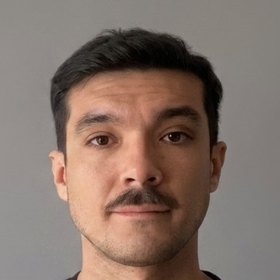
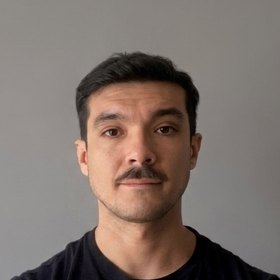
Aleja el encuadre del retrato en Sobre mí
Claude-Session: https://claude.ai/code/session_019oqm24apScdJa8YTtKtuDZ

diff --git a/index.html b/index.html
@@ -4,7 +4,7 @@
 <header><nav class="wrap main-nav" aria-label="Navegación principal"><a class="identity" href="#inicio">Nicolás Alderete <span>Data &amp; Operations</span></a><div class="navlinks"><a href="#proyectos">Proyectos</a><a href="#sobre-mi">Sobre mí</a><a href="#contacto">Contacto</a></div></nav></header>
 <main class="wrap" id="contenido"><section class="hero" id="inicio"><div><p class="eyebrow">Data &amp; Operations · Automatización</p><h1>Nicolás<br><span>Alderete.</span></h1><p class="hero-lead">Gestión operativa y Business Intelligence al servicio de mejores decisiones de negocio.</p><a class="hero-link" href="#proyectos">Ver proyectos <svg class="arrow" viewBox="0 0 24 24" aria-hidden="true"><path d="M5 12h14m-6-6 6 6-6 6"/></svg></a></div><svg class="hero-diagram" viewBox="0 0 360 190" aria-hidden="true"><g fill="none" stroke="#507c79" stroke-width="1.4"><path d="M20 30C105 30 72 95 145 95M20 95h125M20 160C105 160 72 95 145 95M215 95C288 95 255 30 340 30M215 95h125M215 95C288 95 255 160 340 160"/></g><g fill="#8ACCC5"><circle cx="20" cy="30" r="5"/><circle cx="20" cy="95" r="5"/><circle cx="20" cy="160" r="5"/><circle cx="340" cy="30" r="5"/><circle cx="340" cy="95" r="5"/><circle cx="340" cy="160" r="5"/></g><rect x="145" y="60" width="70" height="70" rx="14" fill="#182729" stroke="#8ACCC5" stroke-width="1.6"/><g stroke="#8ACCC5" stroke-width="1.7" fill="none"><path d="m163 88 17-9 17 9-17 9-17-9Zm0 10 17 9 17-9m-34 10 17 9 17-9"/></g></svg></section>
 <section class="work" id="proyectos"><div class="section-head"><h2>Proyectos seleccionados</h2><p>Problemas reales, mi aporte y las soluciones que construí.</p></div><div class="filters" role="group" aria-label="Filtrar proyectos"><button type="button" data-filter="all" aria-pressed="true">Todos</button><button type="button" data-filter="management" aria-pressed="false">Gestión</button><button type="button" data-filter="automation" aria-pressed="false">Automatización</button><button type="button" data-filter="bi" aria-pressed="false">Business Intelligence</button></div><p class="filter-status sr-only" role="status" aria-live="polite">7 proyectos</p><div class="projects"><article class="project" data-category="operations automation"><a class="project-visual" href="casos/gestion-cobranzas.html" aria-label="Ver caso: Gestión de cobranzas"><figure><div class="mini-app" aria-hidden="true"><div class="mini-side"><span class="mini-symbol">◇</span><span class="selected">Carteras</span><span class="">Casos</span><span class="">Archivo</span></div><div class="mini-main"><strong>Gestión de cartera</strong><div class="mini-table"><div class="mini-head"><span>Registro</span><span>Estado</span><span>Detalle</span></div><div class="mini-row"><i></i><span class="mini-state ">Pendiente</span><i></i></div><div class="mini-row"><i></i><span class="mini-state bright">En gestión</span><i></i></div><div class="mini-row"><i></i><span class="mini-state ">En gestión</span><i></i></div><div class="mini-row"><i></i><span class="mini-state bright">Cerrado</span><i></i></div></div></div></div><figcaption>Vista conceptual</figcaption></figure></a><div class="project-body"><p class="project-type">Sistemas de negocio · +50 usuarios</p><h3><a href="casos/gestion-cobranzas.html">Gestión de cobranzas</a></h3><p class="project-description">Conecté la cuenta corriente con la gestión de cada ejecutivo y el seguimiento central, preservando estados, comentarios e histórico.</p><div class="tags"><span class="tag">Apps Script</span><span class="tag">Google Sheets</span></div><a class="case-link" href="casos/gestion-cobranzas.html" aria-label="Ver caso de Gestión de cobranzas">Ver caso <svg class="arrow" viewBox="0 0 24 24" aria-hidden="true"><path d="M5 12h14m-6-6 6 6-6 6"/></svg></a></div></article><article class="project" data-category="operations bi management"><a class="project-visual" href="casos/reporting-ejecutivo.html" aria-label="Ver caso: Reporting ejecutivo"><figure><div class="mini-app" aria-hidden="true"><div class="mini-side"><span class="mini-symbol">◇</span><span class="selected">Resumen</span><span class="">Períodos</span><span class="">Fuentes</span></div><div class="mini-main"><strong>Informe operativo</strong><div class="mini-report"><div class="mini-lines"><i></i><i></i><i></i></div><div class="mini-bars"><i style="height:30%"></i><i style="height:50%"></i><i style="height:40%"></i><i style="height:70%"></i><i style="height:55%"></i><i style="height:85%"></i></div></div></div></div><figcaption>Vista conceptual</figcaption></figure></a><div class="project-body"><p class="project-type">Análisis y comunicación · Dirección</p><h3><a href="casos/reporting-ejecutivo.html">Reporting ejecutivo</a></h3><p class="project-description">Consolidé indicadores y preparé reportes que explican variaciones, pendientes y prioridades para las conversaciones de gestión.</p><div class="tags"><span class="tag">Reporting</span><span class="tag">Business Intelligence</span></div><a class="case-link" href="casos/reporting-ejecutivo.html" aria-label="Ver caso de Reporting ejecutivo">Ver caso <svg class="arrow" viewBox="0 0 24 24" aria-hidden="true"><path d="M5 12h14m-6-6 6 6-6 6"/></svg></a></div></article><article class="project" data-category="operations management"><a class="project-visual" href="casos/sistema-gestion.html" aria-label="Ver caso: Gestión operativa y de equipos"><figure><div class="mini-app" aria-hidden="true"><div class="mini-side"><span class="mini-symbol">◇</span><span class="selected">Prioridades</span><span class="">Acciones</span><span class="">Decisiones</span></div><div class="mini-main"><strong>Seguimiento de gestión</strong><div class="mini-table"><div class="mini-head"><span>Tema</span><span>Estado</span><span>Responsable</span></div><div class="mini-row"><i></i><span class="mini-state ">Asignado</span><i></i></div><div class="mini-row"><i></i><span class="mini-state bright">En curso</span><i></i></div><div class="mini-row"><i></i><span class="mini-state ">Asignado</span><i></i></div><div class="mini-row"><i></i><span class="mini-state bright">Cerrado</span><i></i></div></div></div></div><figcaption>Vista conceptual</figcaption></figure></a><div class="project-body"><p class="project-type">Gestión · +60 personas</p><h3><a href="casos/sistema-gestion.html">Gestión operativa y de equipos</a></h3><p class="project-description">Comparto la supervisión de un equipo de más de 60 personas: ordeno prioridades, coordino con otras áreas y llevo cada reunión a acciones con responsable.</p><div class="tags"><span class="tag">Gestión de equipos</span><span class="tag">Coordinación</span><span class="tag">KPIs</span></div><a class="case-link" href="casos/sistema-gestion.html" aria-label="Ver caso de Gestión operativa y de equipos">Ver caso <svg class="arrow" viewBox="0 0 24 24" aria-hidden="true"><path d="M5 12h14m-6-6 6 6-6 6"/></svg></a></div></article><article class="project" data-category="bi"><a class="project-visual" href="casos/business-intelligence.html" aria-label="Explorar Business Intelligence"><figure><div class="bi-cover" aria-hidden="true"><div class="bi-cover-title">Business Intelligence <span>04 casos</span></div><div class="bi-cover-grid"><div><b>01</b><span>Operaciones</span><small>Actividad · pendientes</small></div><div><b>02</b><span>Continuidad</span><small>Movilidad · tiempos</small></div><div><b>03</b><span>Bajas</span><small>Motivos · permanencia</small></div><div><b>04</b><span>Atención</span><small>Mensajes · conversaciones</small></div></div></div><figcaption>Áreas de análisis</figcaption></figure></a><div class="project-body"><p class="project-type">Analytics · 4 casos aplicados</p><h3><a href="casos/business-intelligence.html">Business Intelligence</a></h3><p class="project-description">Desarrollé tableros y análisis sobre operaciones, continuidad, bajas y atención, desde la definición de métricas hasta la lectura del resultado.</p><div class="tags"><span class="tag">Data Studio</span><span class="tag">Data Analysis</span><span class="tag">KPIs</span></div><a class="case-link" href="casos/business-intelligence.html" aria-label="Explorar los casos de Business Intelligence">Explorar casos <svg class="arrow" viewBox="0 0 24 24" aria-hidden="true"><path d="M5 12h14m-6-6 6 6-6 6"/></svg></a></div></article><article class="project" data-category="operations bi automation"><a class="project-visual" href="casos/control-flota-datos.html" aria-label="Ver caso: Control de flota"><figure><div class="mini-app" aria-hidden="true"><div class="mini-side"><span class="mini-symbol">◇</span><span class="selected">Unidades</span><span class="">Registros</span><span class="">Histórico</span></div><div class="mini-main"><strong>Registro de flota</strong><div class="mini-table"><div class="mini-head"><span>Registro</span><span>Estado</span><span>Detalle</span></div><div class="mini-row"><i></i><span class="mini-state ">Activo</span><i></i></div><div class="mini-row"><i></i><span class="mini-state bright">En revisión</span><i></i></div><div class="mini-row"><i></i><span class="mini-state ">Activo</span><i></i></div><div class="mini-row"><i></i><span class="mini-state bright">Registrado</span><i></i></div></div></div></div><figcaption>Vista conceptual</figcaption></figure></a><div class="project-body"><p class="project-type">Integración de datos · +5.000 unidades</p><h3><a href="casos/control-flota-datos.html">Control de flota</a></h3><p class="project-description">Integré fuentes de flota, revisiones y service con validaciones e históricos para consultar el estado actual y comparar períodos.</p><div class="tags"><span class="tag">Apps Script</span><span class="tag">Google Sheets</span><span class="tag">Data Studio</span></div><a class="case-link" href="casos/control-flota-datos.html" aria-label="Ver caso de Control de flota">Ver caso <svg class="arrow" viewBox="0 0 24 24" aria-hidden="true"><path d="M5 12h14m-6-6 6 6-6 6"/></svg></a></div></article><article class="project" data-category="operations automation management"><a class="project-visual" href="casos/procesos-entre-equipos.html" aria-label="Ver caso: Automatización de procesos"><figure><div class="mini-app" aria-hidden="true"><div class="mini-side"><span class="mini-symbol">◇</span><span class="selected">Flujos</span><span class="">Registros</span><span class="">Reglas</span></div><div class="mini-main"><strong>Flujo de trabajo</strong><div class="mini-flow"><div><i>01</i><span>Registro</span></div><b>›</b><div class="active"><i>02</i><span>Reglas</span></div><b>›</b><div><i>03</i><span>Equipo</span></div></div><div class="mini-track"><span></span><span></span><span></span></div></div></div><figcaption>Vista conceptual</figcaption></figure></a><div class="project-body"><p class="project-type">Diseño de procesos</p><h3><a href="casos/procesos-entre-equipos.html">Automatización de procesos</a></h3><p class="project-description">Convertí necesidades de distintos equipos en registros, reglas y automatizaciones para dar continuidad a cada gestión.</p><div class="tags"><span class="tag">Apps Script</span><span class="tag">Google Sheets</span></div><a class="case-link" href="casos/procesos-entre-equipos.html" aria-label="Ver caso de Automatización de procesos">Ver caso <svg class="arrow" viewBox="0 0 24 24" aria-hidden="true"><path d="M5 12h14m-6-6 6 6-6 6"/></svg></a></div></article><article class="project" data-category="operations automation bi"><a class="project-visual" href="casos/fleet-ops-center.html" aria-label="Ver caso: Fleet Ops Center"><figure><div class="mini-app" aria-hidden="true"><div class="mini-side"><span class="mini-symbol">◇</span><span class="selected">Operación</span><span>Equipos</span><span>Seguimiento</span></div><div class="mini-main"><strong>Fleet Ops Center</strong><div class="mini-modules"><span>Revisiones</span><span>Service</span><span>Taller</span><span>GNC</span><span>Documentación</span><span>Cobranzas</span></div></div></div><figcaption>Vista conceptual</figcaption></figure></a><div class="project-body"><p class="project-type">Producto interno · En desarrollo</p><h3><a href="casos/fleet-ops-center.html">Fleet Ops Center</a></h3><p class="project-description">Diseño una herramienta interna para reunir procesos, información e indicadores de flota en un mismo espacio de trabajo.</p><div class="tags"><span class="tag">Diseño funcional</span><span class="tag">Integración de datos</span></div><a class="case-link" href="casos/fleet-ops-center.html" aria-label="Ver caso de Fleet Ops Center">Ver caso <svg class="arrow" viewBox="0 0 24 24" aria-hidden="true"><path d="M5 12h14m-6-6 6 6-6 6"/></svg></a></div></article></div></section>
-<section id="sobre-mi" class="about"><div><div class="eyebrow">02 / Sobre mí</div><h2>Entender el problema.<br>Construir la solución.</h2><div class="portrait"><img src="assets/img/retrato-cara.jpg" width="280" height="280" alt="Nicolás Alderete" loading="lazy"><div><b>Nicolás Alderete</b><small>Data &amp; Operations · Buenos Aires</small></div></div></div><div class="about-copy"><p>Soy Nicolás. Combino gestión de operaciones y equipos con análisis de datos, Business Intelligence y automatización para mejorar procesos y decisiones de negocio. Actualmente soy supervisor en deRentas, donde coordino iniciativas entre equipos, defino KPIs y desarrollo reportes ejecutivos y herramientas de gestión.</p><p>Mi foco está en detectar oportunidades de mejora, simplificar procesos y transformar datos en acciones. Estoy disponible para roles corporativos y proyectos independientes en operaciones, Business Intelligence y automatización, donde pueda aportar una mirada integral del negocio y construir soluciones con resultados medibles.</p></div><div class="toolbox" aria-labelledby="toolbox-title"><h3 id="toolbox-title">Herramientas y tecnologías</h3><ul class="tools-grid"><li><svg viewBox="0 0 24 24" aria-hidden="true" focusable="false"><rect x="4" y="3" width="16" height="18" rx="2"/><path d="M4 9h16M4 15h16M10 9v12"/></svg><span>Microsoft Excel</span></li><li><svg viewBox="0 0 24 24" aria-hidden="true" focusable="false"><rect x="4" y="3" width="16" height="18" rx="2"/><path d="M4 9h16M4 15h16M10 9v12"/></svg><span>Google Sheets</span></li><li><svg viewBox="0 0 24 24" aria-hidden="true" focusable="false"><ellipse cx="12" cy="5" rx="8" ry="3"/><path d="M4 5v14c0 1.7 3.6 3 8 3s8-1.3 8-3V5M4 12c0 1.7 3.6 3 8 3s8-1.3 8-3"/></svg><span>SQL</span></li><li><svg viewBox="0 0 24 24" aria-hidden="true" focusable="false"><path d="m7 6-5 6 5 6m10-12 5 6-5 6M14 3l-4 18"/></svg><span>Python</span></li><li><svg viewBox="0 0 24 24" aria-hidden="true" focusable="false"><circle cx="10" cy="10" r="7"/><path d="m15 15 6 6M7 13V9m3 4V6m3 7v-3"/></svg><span>BigQuery</span></li><li><svg viewBox="0 0 24 24" aria-hidden="true" focusable="false"><path d="m8 5-6 7 6 7m8-14 6 7-6 7M14 3l-4 18"/></svg><span>Google Apps Script</span></li><li><svg viewBox="0 0 24 24" aria-hidden="true" focusable="false"><path d="m12 3 2.6 6.4L21 12l-6.4 2.6L12 21l-2.6-6.4L3 12l6.4-2.6L12 3ZM20 2v4m-2-2h4"/></svg><span>Google AI Studio</span></li><li><svg viewBox="0 0 24 24" aria-hidden="true" focusable="false"><path d="M4 3v17h17M8 16v-5m5 5V7m5 9V4"/></svg><span>Data Studio</span></li><li><svg viewBox="0 0 24 24" aria-hidden="true" focusable="false"><path d="M4 3v17h17M8 16v-5m5 5V7m5 9V4"/></svg><span>Power BI</span></li><li><svg viewBox="0 0 24 24" aria-hidden="true" focusable="false"><path d="M12 5v14M5 12h14M5 3v4M3 5h4M19 3v4M17 5h4M5 17v4M3 19h4M19 17v4M17 19h4"/></svg><span>Tableau</span></li></ul></div><div class="capabilities"><div class="capability"><span class="num">01</span><div><h3>Gestión operativa y de equipos</h3><p>Organizo prioridades, coordino acciones entre equipos y doy seguimiento a responsables, plazos y desvíos.</p></div></div><div class="capability"><span class="num">02</span><div><h3>Business Intelligence</h3><p>Defino y valido indicadores, fuentes y tableros que muestran lo que importa.</p></div></div><div class="capability"><span class="num">03</span><div><h3>Reporting ejecutivo</h3><p>Traduzco información compleja en reportes claros para conversaciones de gestión.</p></div></div><div class="capability"><span class="num">04</span><div><h3>Automatización de procesos</h3><p>Desarrollo flujos, fórmulas y scripts para reducir tareas repetitivas y sostener controles.</p></div></div><div class="capability"><span class="num">05</span><div><h3>Herramientas internas</h3><p>Participo en la definición funcional y construcción iterativa de soluciones para equipos.</p></div></div></div></section>
+<section id="sobre-mi" class="about"><div><div class="eyebrow">02 / Sobre mí</div><h2>Entender el problema.<br>Construir la solución.</h2><div class="portrait"><img src="assets/img/retrato-cara.jpg?v=2" width="280" height="280" alt="Nicolás Alderete" loading="lazy"><div><b>Nicolás Alderete</b><small>Data &amp; Operations · Buenos Aires</small></div></div></div><div class="about-copy"><p>Soy Nicolás. Combino gestión de operaciones y equipos con análisis de datos, Business Intelligence y automatización para mejorar procesos y decisiones de negocio. Actualmente soy supervisor en deRentas, donde coordino iniciativas entre equipos, defino KPIs y desarrollo reportes ejecutivos y herramientas de gestión.</p><p>Mi foco está en detectar oportunidades de mejora, simplificar procesos y transformar datos en acciones. Estoy disponible para roles corporativos y proyectos independientes en operaciones, Business Intelligence y automatización, donde pueda aportar una mirada integral del negocio y construir soluciones con resultados medibles.</p></div><div class="toolbox" aria-labelledby="toolbox-title"><h3 id="toolbox-title">Herramientas y tecnologías</h3><ul class="tools-grid"><li><svg viewBox="0 0 24 24" aria-hidden="true" focusable="false"><rect x="4" y="3" width="16" height="18" rx="2"/><path d="M4 9h16M4 15h16M10 9v12"/></svg><span>Microsoft Excel</span></li><li><svg viewBox="0 0 24 24" aria-hidden="true" focusable="false"><rect x="4" y="3" width="16" height="18" rx="2"/><path d="M4 9h16M4 15h16M10 9v12"/></svg><span>Google Sheets</span></li><li><svg viewBox="0 0 24 24" aria-hidden="true" focusable="false"><ellipse cx="12" cy="5" rx="8" ry="3"/><path d="M4 5v14c0 1.7 3.6 3 8 3s8-1.3 8-3V5M4 12c0 1.7 3.6 3 8 3s8-1.3 8-3"/></svg><span>SQL</span></li><li><svg viewBox="0 0 24 24" aria-hidden="true" focusable="false"><path d="m7 6-5 6 5 6m10-12 5 6-5 6M14 3l-4 18"/></svg><span>Python</span></li><li><svg viewBox="0 0 24 24" aria-hidden="true" focusable="false"><circle cx="10" cy="10" r="7"/><path d="m15 15 6 6M7 13V9m3 4V6m3 7v-3"/></svg><span>BigQuery</span></li><li><svg viewBox="0 0 24 24" aria-hidden="true" focusable="false"><path d="m8 5-6 7 6 7m8-14 6 7-6 7M14 3l-4 18"/></svg><span>Google Apps Script</span></li><li><svg viewBox="0 0 24 24" aria-hidden="true" focusable="false"><path d="m12 3 2.6 6.4L21 12l-6.4 2.6L12 21l-2.6-6.4L3 12l6.4-2.6L12 3ZM20 2v4m-2-2h4"/></svg><span>Google AI Studio</span></li><li><svg viewBox="0 0 24 24" aria-hidden="true" focusable="false"><path d="M4 3v17h17M8 16v-5m5 5V7m5 9V4"/></svg><span>Data Studio</span></li><li><svg viewBox="0 0 24 24" aria-hidden="true" focusable="false"><path d="M4 3v17h17M8 16v-5m5 5V7m5 9V4"/></svg><span>Power BI</span></li><li><svg viewBox="0 0 24 24" aria-hidden="true" focusable="false"><path d="M12 5v14M5 12h14M5 3v4M3 5h4M19 3v4M17 5h4M5 17v4M3 19h4M19 17v4M17 19h4"/></svg><span>Tableau</span></li></ul></div><div class="capabilities"><div class="capability"><span class="num">01</span><div><h3>Gestión operativa y de equipos</h3><p>Organizo prioridades, coordino acciones entre equipos y doy seguimiento a responsables, plazos y desvíos.</p></div></div><div class="capability"><span class="num">02</span><div><h3>Business Intelligence</h3><p>Defino y valido indicadores, fuentes y tableros que muestran lo que importa.</p></div></div><div class="capability"><span class="num">03</span><div><h3>Reporting ejecutivo</h3><p>Traduzco información compleja en reportes claros para conversaciones de gestión.</p></div></div><div class="capability"><span class="num">04</span><div><h3>Automatización de procesos</h3><p>Desarrollo flujos, fórmulas y scripts para reducir tareas repetitivas y sostener controles.</p></div></div><div class="capability"><span class="num">05</span><div><h3>Herramientas internas</h3><p>Participo en la definición funcional y construcción iterativa de soluciones para equipos.</p></div></div></div></section>
 <section class="contact" id="contacto"><div><p class="eyebrow">Contacto</p><h2>Conversemos.</h2><p>Sobre datos, procesos y herramientas que ayuden a trabajar mejor.</p></div><a class="contact-link" href="https://www.linkedin.com/in/nicolas-alderete/" target="_blank" rel="noopener">Contactar por LinkedIn <svg class="arrow" viewBox="0 0 24 24" aria-hidden="true"><path d="M5 12h14m-6-6 6 6-6 6"/></svg></a></section></main>
 <footer><div class="wrap footer-inner"><span>© 2026 Nicolás Alderete · Buenos Aires</span><div><a href="https://github.com/Nicoalderete" target="_blank" rel="noopener">GitHub</a><a href="https://www.linkedin.com/in/nicolas-alderete/" target="_blank" rel="noopener">LinkedIn</a><a href="#inicio">Volver arriba</a></div></div></footer>
 <script>document.querySelectorAll('[data-filter]').forEach(button=>button.addEventListener('click',()=>{document.querySelectorAll('[data-filter]').forEach(b=>b.setAttribute('aria-pressed',String(b===button)));let count=0;document.querySelectorAll('[data-category]').forEach(card=>{const f=button.dataset.filter;card.hidden=!(f==='all'||card.dataset.category.split(' ').includes(f));if(!card.hidden)count++;});document.querySelector('.filter-status').textContent=count+' proyectos';}));</script></body></html>
